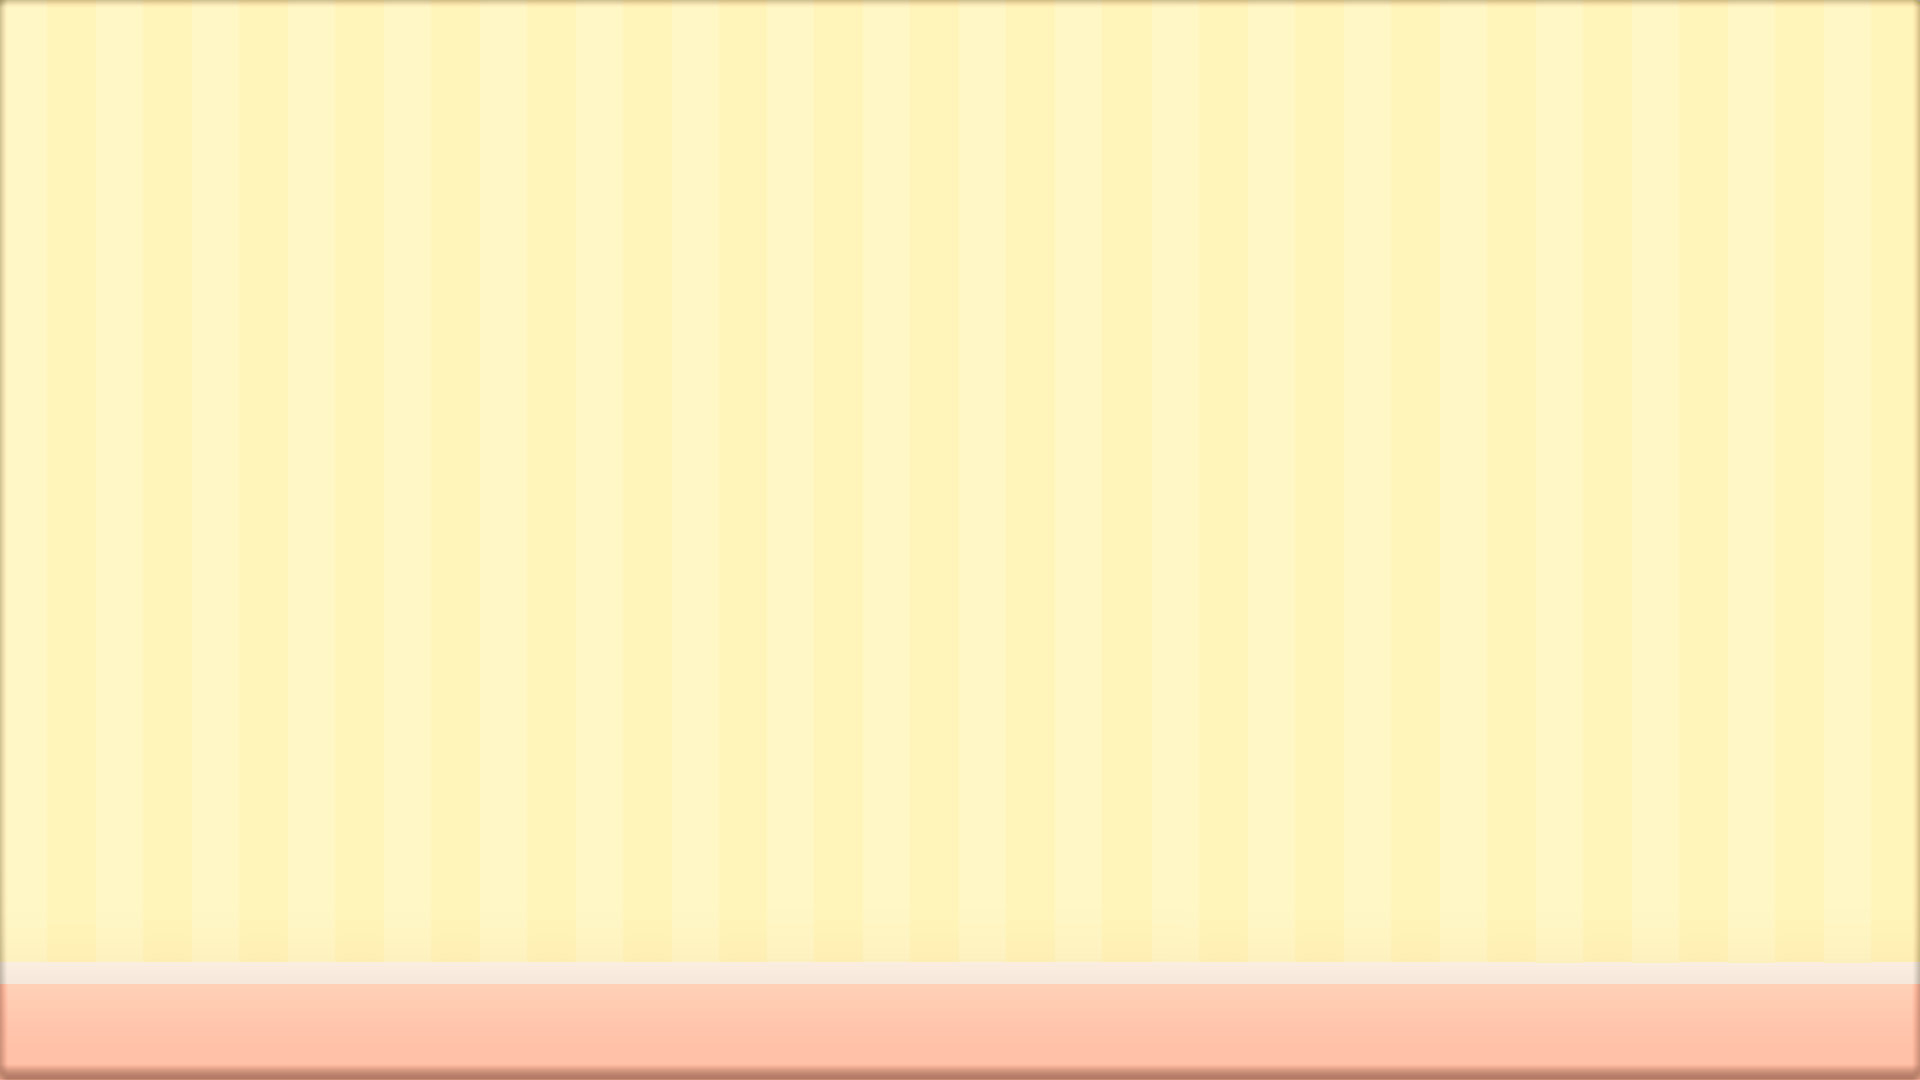
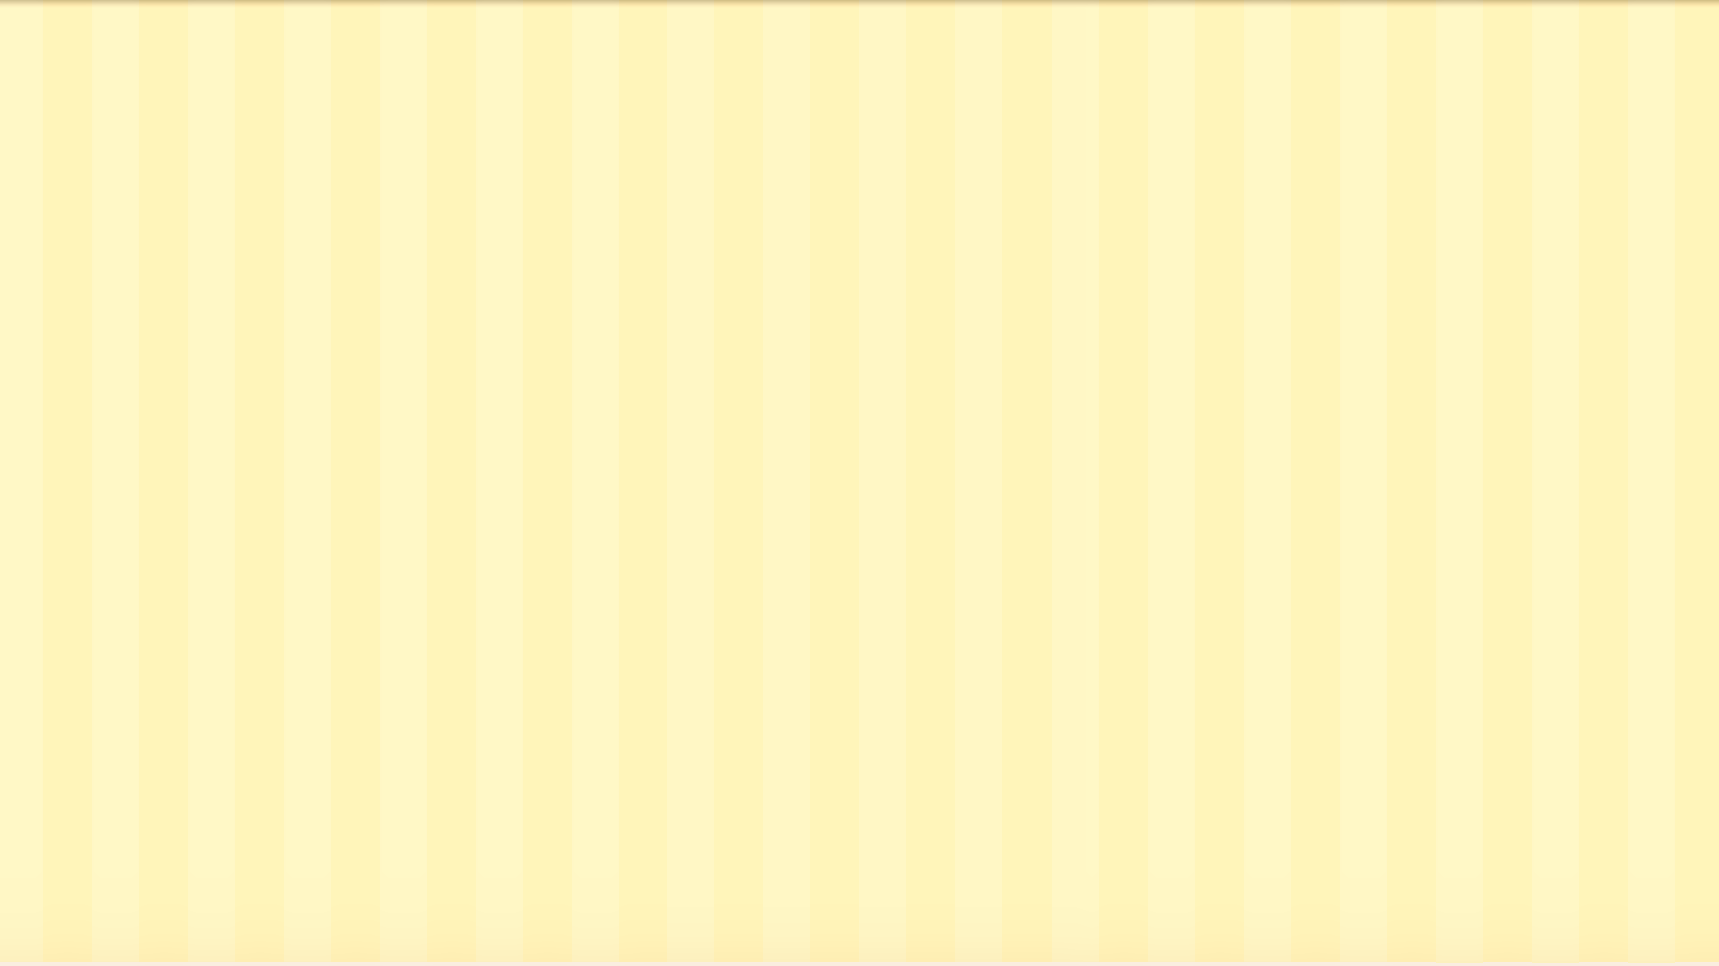
[style] [Kylie] fix background

Changed region(s): [[0.0, 0.0, 1.0, 1.0]]

diff --git a/BasicApp/style.css b/BasicApp/style.css
@@ -1,10 +1,11 @@
 body {
-  margin: auto;
-  padding: auto;
-  height: auto;
-  width: auto;
-  font-family: Helvetica;
+   background-repeat: no-repeat;
+    background-size: cover;
+    background-position: center center;
+    background-attachment: fixed;
+ 
   background-image: url("./images/bg-inhouseExper.png");
+   font-family: Helvetica;
 }
 
 .side-bar {
